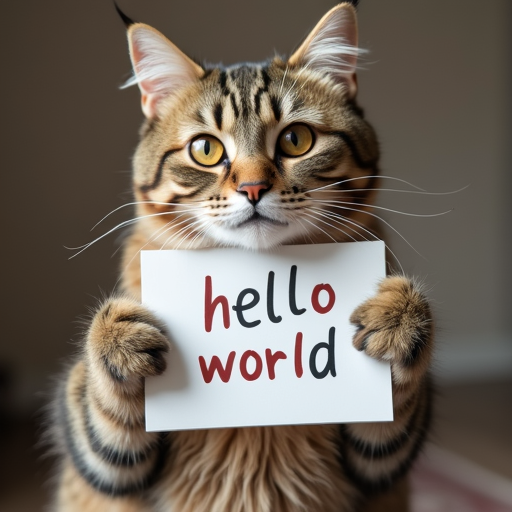
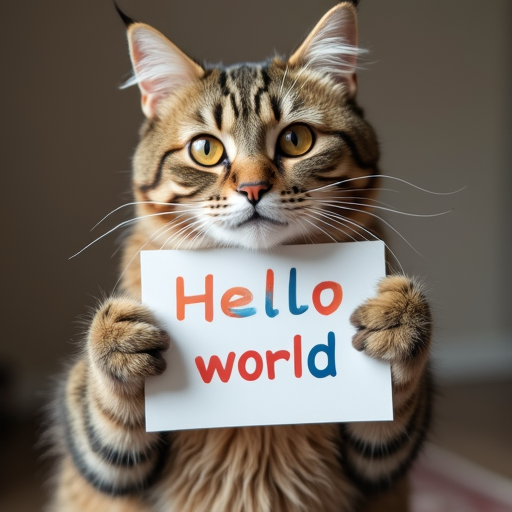
Add Flux.1 img2image example.

diff --git a/StableDiffusion/Flux1-dev-example04.py b/StableDiffusion/Flux1-dev-example04.py
@@ -1,0 +1,258 @@
+import torch
+import gradio as gr
+import time
+from diffusers import FluxPipeline
+from PIL import Image
+import numpy as np
+
+# Load model with memory optimizations
+print("모델을 로딩 중입니다...")
+pipe = FluxPipeline.from_pretrained(
+    "black-forest-labs/FLUX.1-dev", 
+    torch_dtype=torch.bfloat16
+)
+
+# Enable multiple memory optimizations
+pipe.enable_model_cpu_offload()  # Offload model to CPU when not in use
+pipe.enable_sequential_cpu_offload()  # More aggressive CPU offloading
+pipe.enable_attention_slicing(1)  # Slice attention computation
+pipe.enable_vae_slicing()  # Slice VAE computation
+print("모델 로딩 완료!")
+
+def generate_image(prompt, input_image, width, height, guidance_scale, num_inference_steps, max_sequence_length, strength, seed):
+    """이미지 생성 함수 (텍스트-투-이미지 또는 이미지-투-이미지)"""
+    start_time = time.time()
+    
+    # 폭과 높이를 16으로 나누어지도록 조정 (축소 방향으로만, 비율 유지)
+    width = int(width)
+    height = int(height)
+    
+    # 원본 비율 계산
+    aspect_ratio = width / height
+    
+    # 16의 배수로 내림 (축소)
+    adjusted_width = (width // 16) * 16
+    adjusted_height = (height // 16) * 16
+    
+    # 최소 크기 512x512 보장하면서 비율 유지
+    if adjusted_width < 512 or adjusted_height < 512:
+        if aspect_ratio >= 1.0:  # 가로가 더 크거나 같은 경우
+            adjusted_height = 512
+            adjusted_width = int(512 * aspect_ratio)
+            # 16의 배수로 조정
+            adjusted_width = (adjusted_width // 16) * 16
+        else:  # 세로가 더 큰 경우
+            adjusted_width = 512
+            adjusted_height = int(512 / aspect_ratio)
+            # 16의 배수로 조정
+            adjusted_height = (adjusted_height // 16) * 16
+    
+    # 최종 최소 크기 확인
+    adjusted_width = max(adjusted_width, 512)
+    adjusted_height = max(adjusted_height, 512)
+    
+    # 시드 설정
+    if seed == -1:
+        seed = torch.randint(0, 2**32 - 1, (1,)).item()
+    
+    generator = torch.Generator("cpu").manual_seed(seed)
+    
+    try:
+        # 입력 이미지가 있는 경우 img2img, 없는 경우 txt2img
+        if input_image is not None:
+            # 입력 이미지 크기 조정
+            input_image = input_image.resize((adjusted_width, adjusted_height), Image.LANCZOS)
+            
+            # img2img 생성
+            image = pipe(
+                prompt,
+                image=input_image,
+                height=adjusted_height,
+                width=adjusted_width,
+                guidance_scale=guidance_scale,
+                num_inference_steps=int(num_inference_steps),
+                max_sequence_length=int(max_sequence_length),
+                strength=strength,
+                generator=generator
+            ).images[0]
+            
+            generation_type = "이미지-투-이미지"
+        else:
+            # txt2img 생성
+            image = pipe(
+                prompt,
+                height=adjusted_height,
+                width=adjusted_width,
+                guidance_scale=guidance_scale,
+                num_inference_steps=int(num_inference_steps),
+                max_sequence_length=int(max_sequence_length),
+                generator=generator
+            ).images[0]
+            
+            generation_type = "텍스트-투-이미지"
+        
+        end_time = time.time()
+        generation_time = end_time - start_time
+        
+        # 이미지 저장
+        timestamp = int(time.time())
+        filename = f"flux_generated_{timestamp}.png"
+        image.save(filename)
+        
+        # 크기 조정 정보 포함
+        size_info = ""
+        if width != adjusted_width or height != adjusted_height:
+            original_ratio = width / height
+            final_ratio = adjusted_width / adjusted_height
+            size_info = f"\n크기 조정: {width}x{height} → {adjusted_width}x{adjusted_height}"
+            size_info += f"\n비율 유지: {original_ratio:.2f} → {final_ratio:.2f}"
+        
+        info_text = f"생성 완료! ({generation_type})\n시간: {generation_time:.2f}초\n시드: {seed}\n저장된 파일: {filename}{size_info}"
+        
+        return image, info_text
+        
+    except Exception as e:
+        error_text = f"오류 발생: {str(e)}"
+        return None, error_text
+
+def update_ui_visibility(input_image):
+    """입력 이미지에 따라 UI 요소 표시/숨김"""
+    if input_image is not None:
+        return gr.update(visible=True), gr.update(value="이미지를 프롬프트에 맞게 수정합니다...")
+    else:
+        return gr.update(visible=False), gr.update(value="생성하고 싶은 이미지를 설명해주세요...")
+
+# Gradio 인터페이스 생성
+with gr.Blocks(title="FLUX.1-dev 이미지 생성기") as demo:
+    gr.Markdown("# 🎨 FLUX.1-dev 이미지 생성기")
+    gr.Markdown("텍스트로 새 이미지를 생성하거나, 기존 이미지를 프롬프트에 맞게 수정하세요!")
+    
+    with gr.Row():
+        with gr.Column(scale=1):
+            # 입력 이미지 (선택사항)
+            input_image = gr.Image(
+                label="입력 이미지 (선택사항)",
+                type="pil",
+                sources=["upload", "clipboard"]
+            )
+            
+            # 입력 컨트롤들
+            prompt_input = gr.Textbox(
+                label="프롬프트",
+                placeholder="생성하고 싶은 이미지를 설명해주세요...",
+                value="photorealistic, 8k resolution, ultra detailed, vibrant colors, cinematic lighting, realistic shadows, high quality, masterpiece, best quality,looking at viewer, perfect anatomy",
+                lines=4
+            )
+            
+            with gr.Row():
+                width_slider = gr.Slider(
+                    minimum=256,
+                    maximum=1024,
+                    value=768,
+                    step=64,
+                    label="너비"
+                )
+                height_slider = gr.Slider(
+                    minimum=256,
+                    maximum=1024,
+                    value=768,
+                    step=64,
+                    label="높이"
+                )
+            
+            guidance_slider = gr.Slider(
+                minimum=1.0,
+                maximum=10.0,
+                value=3.5,
+                step=0.1,
+                label="가이던스 스케일"
+            )
+            
+            steps_slider = gr.Slider(
+                minimum=10,
+                maximum=50,
+                value=28,
+                step=1,
+                label="추론 스텝 수"
+            )
+            
+            sequence_slider = gr.Slider(
+                minimum=128,
+                maximum=512,
+                value=256,
+                step=32,
+                label="최대 시퀀스 길이"
+            )
+            
+            # 이미지-투-이미지 전용 설정
+            strength_slider = gr.Slider(
+                minimum=0.1,
+                maximum=1.0,
+                value=0.7,
+                step=0.1,
+                label="변형 강도 (낮을수록 원본 유지)",
+                visible=False
+            )
+            
+            seed_input = gr.Number(
+                label="시드 (-1은 랜덤)",
+                value=-1,
+                precision=0
+            )
+            
+            generate_btn = gr.Button("🎨 이미지 생성", variant="primary", size="lg")
+        
+        with gr.Column(scale=1):
+            # 출력 영역
+            output_image = gr.Image(
+                label="생성된 이미지",
+                type="pil",
+                height=500
+            )
+            
+            info_output = gr.Textbox(
+                label="생성 정보",
+                lines=4,
+                interactive=False
+            )
+    
+    # 이벤트 연결
+    input_image.change(
+        fn=update_ui_visibility,
+        inputs=[input_image],
+        outputs=[strength_slider, prompt_input]
+    )
+    
+    generate_btn.click(
+        fn=generate_image,
+        inputs=[
+            prompt_input,
+            input_image,
+            width_slider,
+            height_slider,
+            guidance_slider,
+            steps_slider,
+            sequence_slider,
+            strength_slider,
+            seed_input
+        ],
+        outputs=[output_image, info_output]
+    )
+    
+    # 예제 프롬프트
+    gr.Examples(
+        examples=[
+            ["a cute cat holding a sign that says hello world"],
+            ["a futuristic city skyline at sunset, cyberpunk style"],
+            ["a beautiful landscape with mountains and a lake, oil painting style"],
+            ["a portrait of a woman with blue eyes, renaissance painting style"],
+            ["a magical forest with glowing mushrooms, fantasy art"],
+            ["convert this image to anime style, vibrant colors"],
+            ["make this image look like a watercolor painting"],
+            ["transform this to a cyberpunk style with neon lights"]
+        ],
+        inputs=prompt_input
+    )
+
+if __name__ == "__main__":
+    demo.launch(share=False)

diff --git a/StableDiffusion/Flux1-dev-example01.py b/StableDiffusion/Flux1-dev-example01.py
@@ -15,16 +15,17 @@ pipe.enable_vae_slicing()  # Slice VAE computation
 
 # Don't manually move to CPU - let sequential_cpu_offload handle device management
 
-prompt = "A cat holding a sign that says hello world"
+#prompt = "a futuristic city skyline at sunset, cyberpunk style"
+prompt = "a futuristic city skyline, photorealistic, 8k resolution, ultra detailed, vibrant colors, cinematic lighting, realistic shadows, high quality, masterpiece, best quality"
 
 # Reduce image size to save memory
 image = pipe(
     prompt,
-    height=512,  # Reduced from 1024 to save memory
-    width=512,   # Reduced from 1024 to save memory
+    height=1024,  # Reduced from 1024 to save memory
+    width=1024,   # Reduced from 1024 to save memory
     guidance_scale=3.5,
-    num_inference_steps=28,  # Reduced steps for faster generation
+    num_inference_steps=50,  # Reduced steps for faster generation
     max_sequence_length=256,  # Reduced sequence length
     generator=torch.Generator("cpu").manual_seed(0)
 ).images[0]
-image.save("flux-dev.png")
+image.save("flux-dev03.png")
